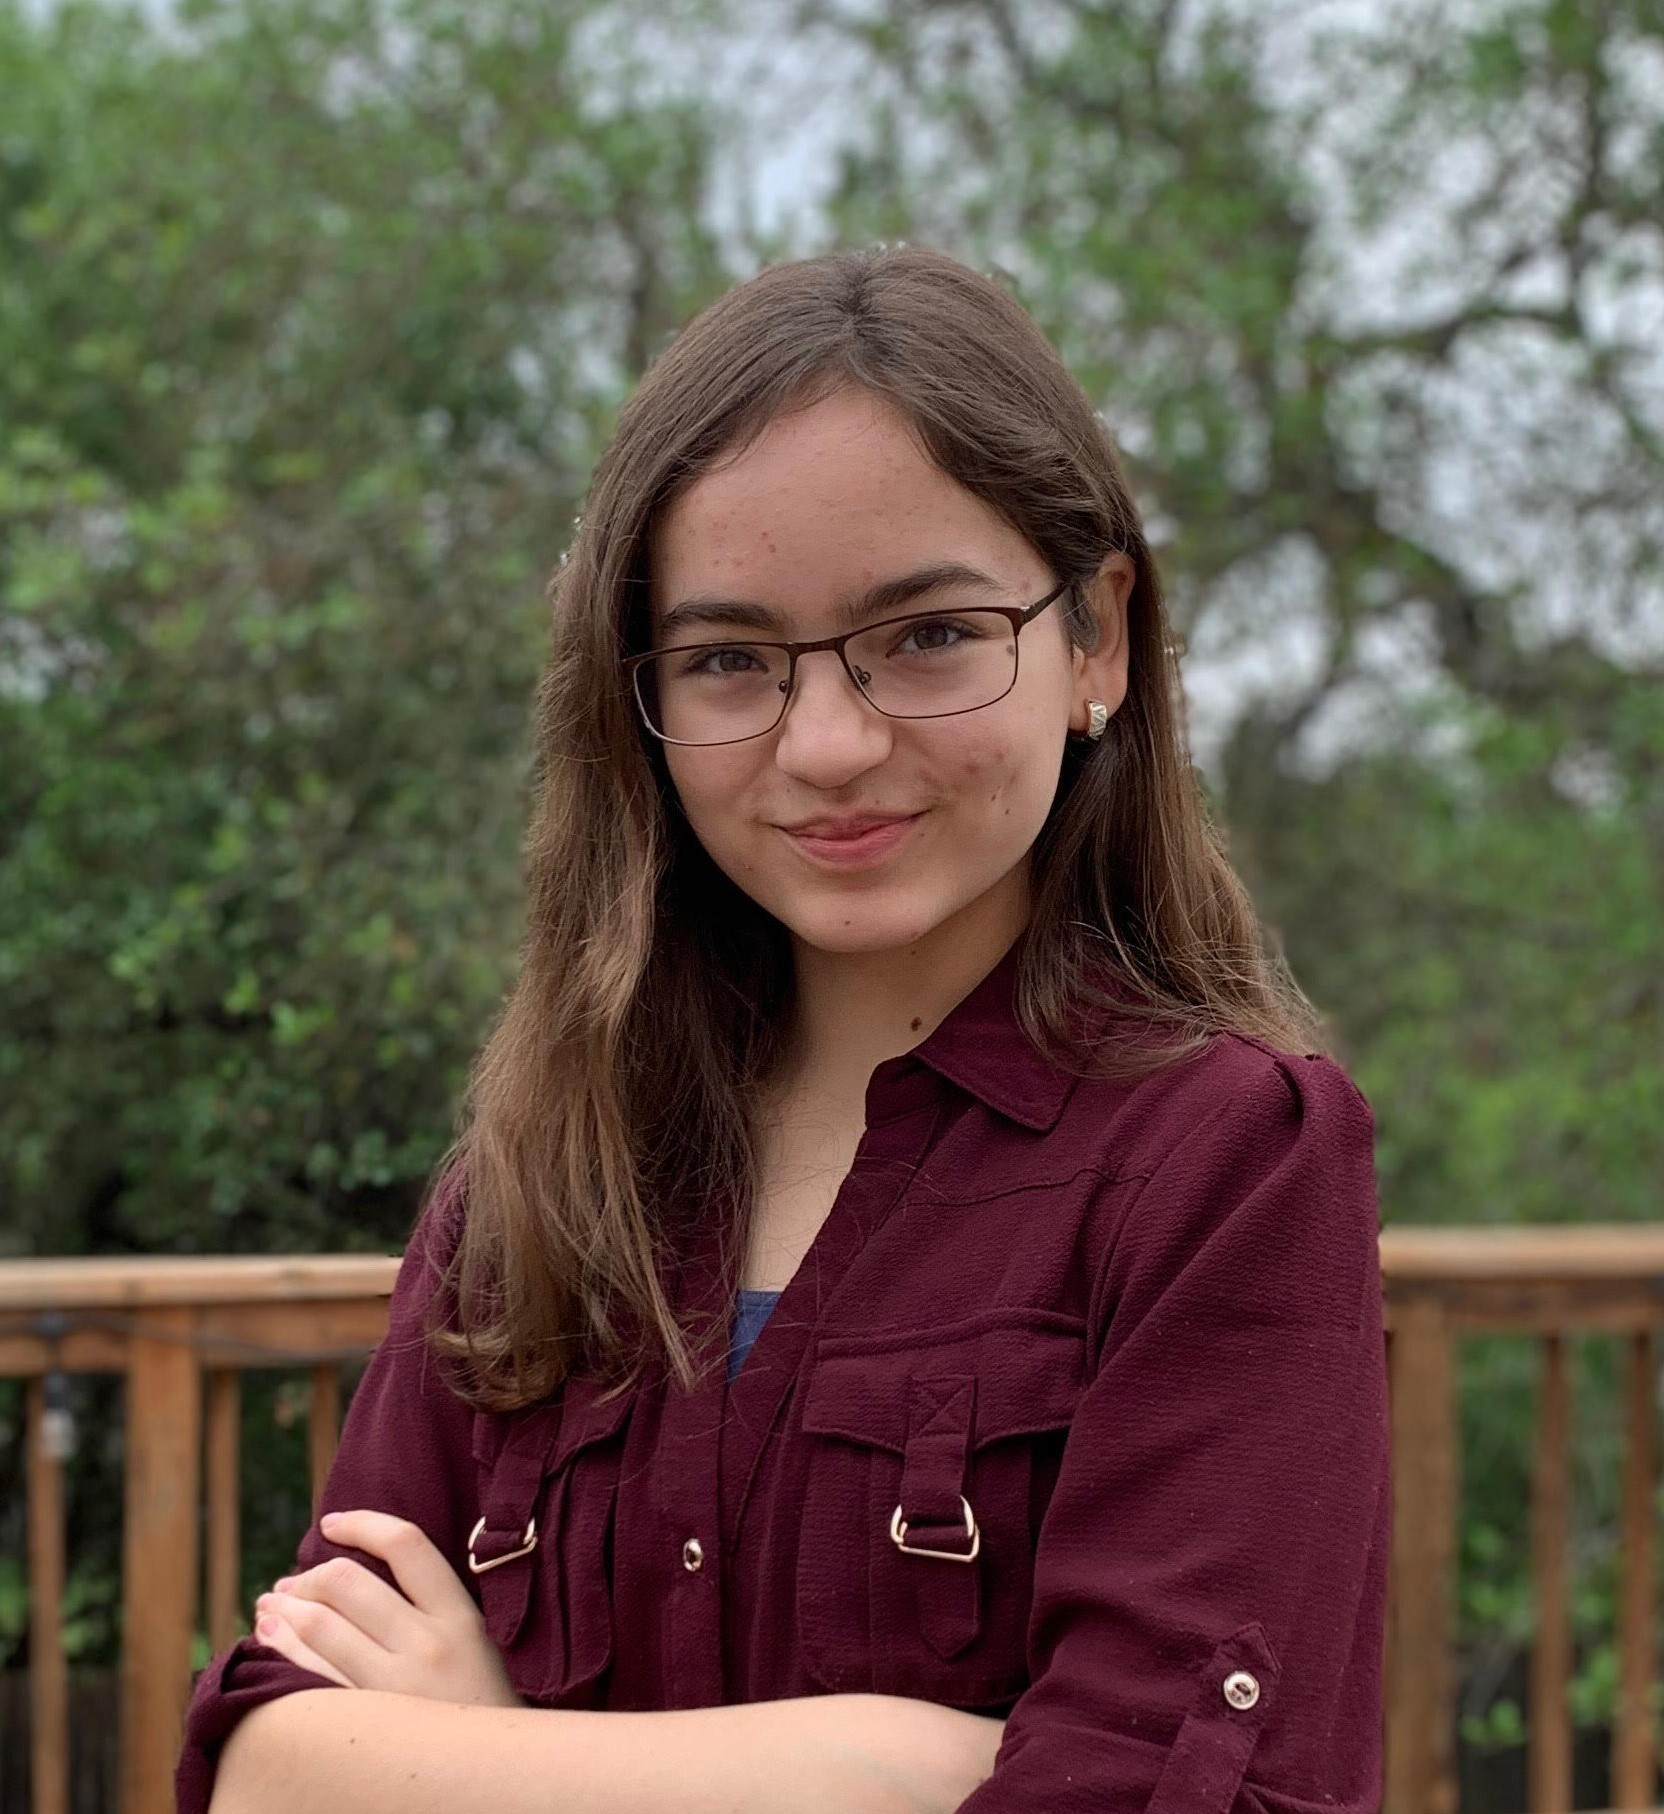
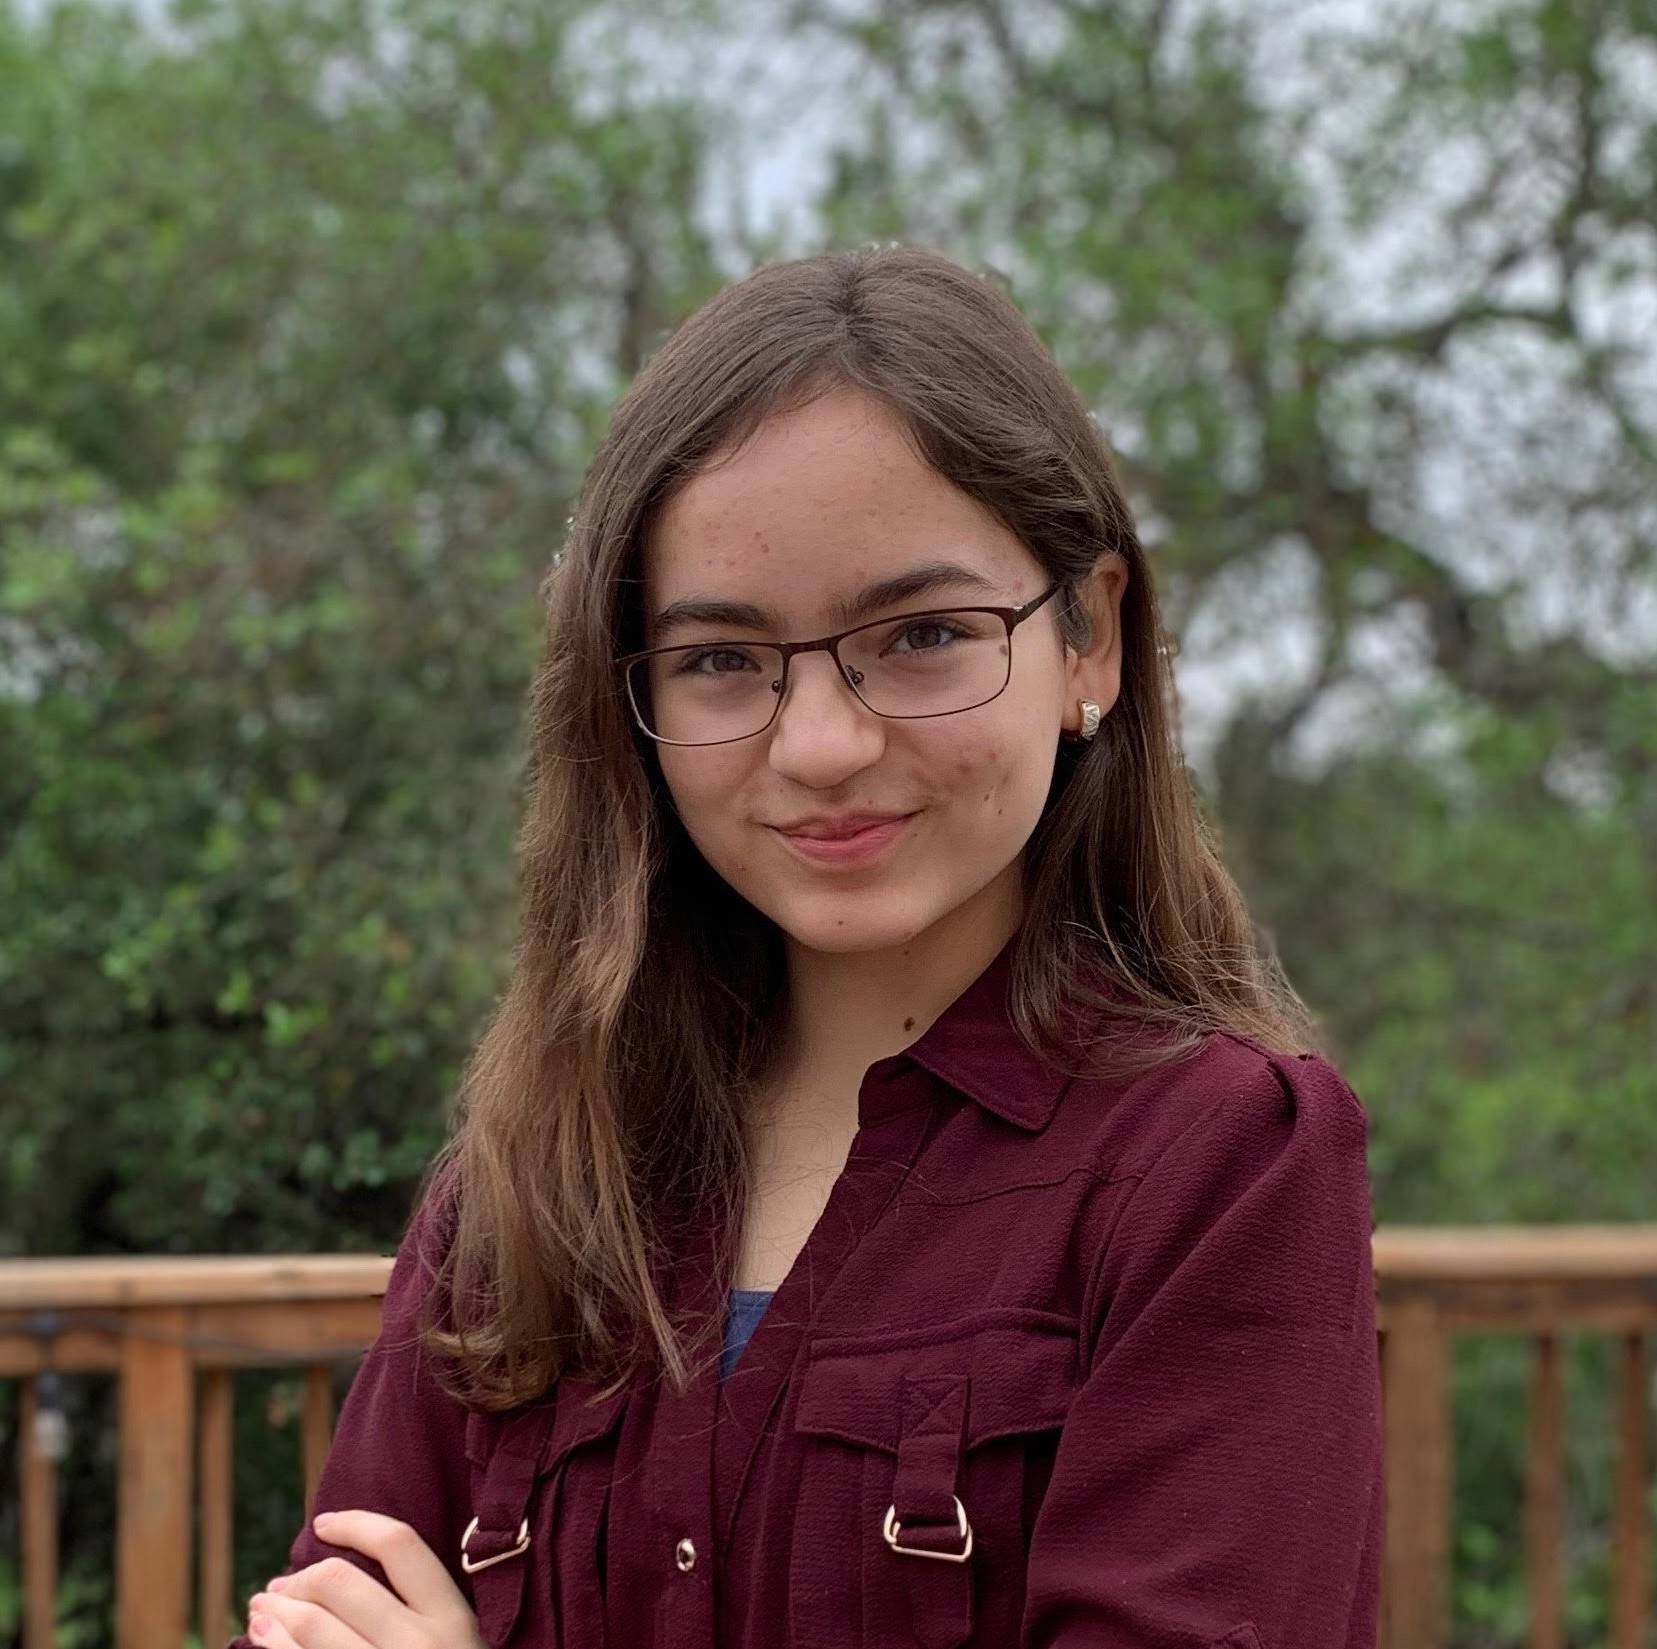
Add images and css fixes

diff --git a/about.html b/about.html
@@ -72,18 +72,18 @@
           </div>
         </div>
         <div id="team" class="about-scroll-subtitle"> Team </div>
-        <div class="about-scroll-content-section" style="display: flex; justify-content: center; align-items: center; flex-direction: column !important;">
+        <div class="about-scroll-content-section">
           <div class="about-team-row-one">
             <div class="about-team-row-text-one"><h5>Leaders</h5></div>
             <div class="about-team-row-images-one">
               <div class="about-image flip-card">
                   <div class="holder">
-                    <img src="includes/images/Jessica_Jimenez.jpg" alt="Jessica Jimenez">
+                    <img src="includes/images/jess.webp" alt="Jessica Jimenez">
                   </div>
               </div>
               <div class="about-image flip-card">        
                 <div class="holder">
-                  <img src="includes/images/Dharma.jpg" alt="Dharma Palacios">
+                  <img src="includes/images/dharma.webp" alt="Dharma Palacios">
                 </div>
               </div>
             </div>
@@ -93,22 +93,22 @@
             <div class="about-team-row-images-two">
               <div class="about-image flip-card">
                 <div class="holder">
-                  <img src="includes/images/Nghi.jpg" alt="Nghi Nguyen">
+                  <img src="includes/images/nghi.webp" alt="Nghi Nguyen">
                 </div>                    
               </div>
               <div class="about-image flip-card">
                   <div class="holder">
-                    <img src="" alt="Jingting">
+                    <img src="/includes/images/jingting.webp" alt="Jingting">
                   </div>                            
               </div>
               <div class="about-image flip-card">
                   <div class="holder">
-                    <img src="" alt="Sabeen">
+                    <img src="/includes/images/sabeen.webp" alt="Sabeen">
                   </div>                    
               </div>
               <div class="about-image flip-card">
                   <div class="holder">
-                    <img src="" alt="Antonello">
+                    <img src="/includes/images/acc2.png" alt="Antonello">
                   </div>                    
               </div>
             </div>

diff --git a/includes/css/about.css b/includes/css/about.css
@@ -1,26 +1,25 @@
-.about-team-row-one .about-team-row-two{
-  max-width: 100vw;
-  max-height: 75vh;
+.about-scroll-content-section {
+  padding: 2.2em;
 }
 
 .about-image {
-  width: 212px;
-  height: 212px;
   margin: 12px;
-  background-color: rgb(46, 44, 44);
+  /* background-color: rgb(46, 44, 44); */
 }
 
 .holder {   
   width: 212px;
   height: 212px;
+  border-radius: 50%;
+  padding: .3em;
   display: inline-block; 
+  overflow: hidden;
   background-color: #202A5D;
 }
 
 .holder img {
-  width: 212px;
-  height: 212px;
-  background-color: #202A5D;
+  max-width:100%;
+  border-radius: 50%;
 }
 
 h5 {
@@ -34,5 +33,6 @@ h5 {
 [class^="about-team-row-images"] {
   display: flex;
   flex-direction: row;
+  justify-content: center;
   margin: 12px;
 }

diff --git a/includes/css/page-template.css b/includes/css/page-template.css
@@ -48,7 +48,7 @@ body {
   justify-content: center;
   background-color: #B93838;
   width: 100vw;
-  height: 5vh;
+  height: 4em;
   color: white;
   font-family: 'Amiko', sans-serif;
   font-size: 20px;
@@ -58,15 +58,17 @@ body {
 [class*=scroll-content-section] {
   display: flex;
   justify-content: center;
-  width: 100vw;
-  max-height: 75vh;
+  flex-wrap: wrap;
+  flex-direction: column;
+  /* width: 100vw; */
+  /* max-height: 75vh; */
   font-family: 'Source Sans Pro', sans-serif; 
   line-height: 2; 
   font-size: 24px; 
-  padding-left: 9vh; 
-  padding-right: 9vh;
-  padding-top: 12vh;
-  margin-bottom: 14vh;
+  /* padding-left: 9vh; 
+  padding-right: 9vh; */
+  /* padding-top: 12vh; */
+  /* margin-bottom: 14vh; */
   overflow: hidden;
 }
 

diff --git a/resources.html b/resources.html
@@ -55,7 +55,7 @@
       </div>
       <div class= "resources-scroll-area">
         <div id="faq" class="resources-scroll-subtitle"> FAQ </div>
-          <div class="resources-scroll-content-section" style= "padding-top: 120px">
+          <div class="resources-scroll-content-section">
             <div class="accordion accordion-flush" id="accordionFlushExample">
               <div class="accordion-item" style="width: 100vw;">
                 <h2 class="accordion-header" id="flush-headingOne">
